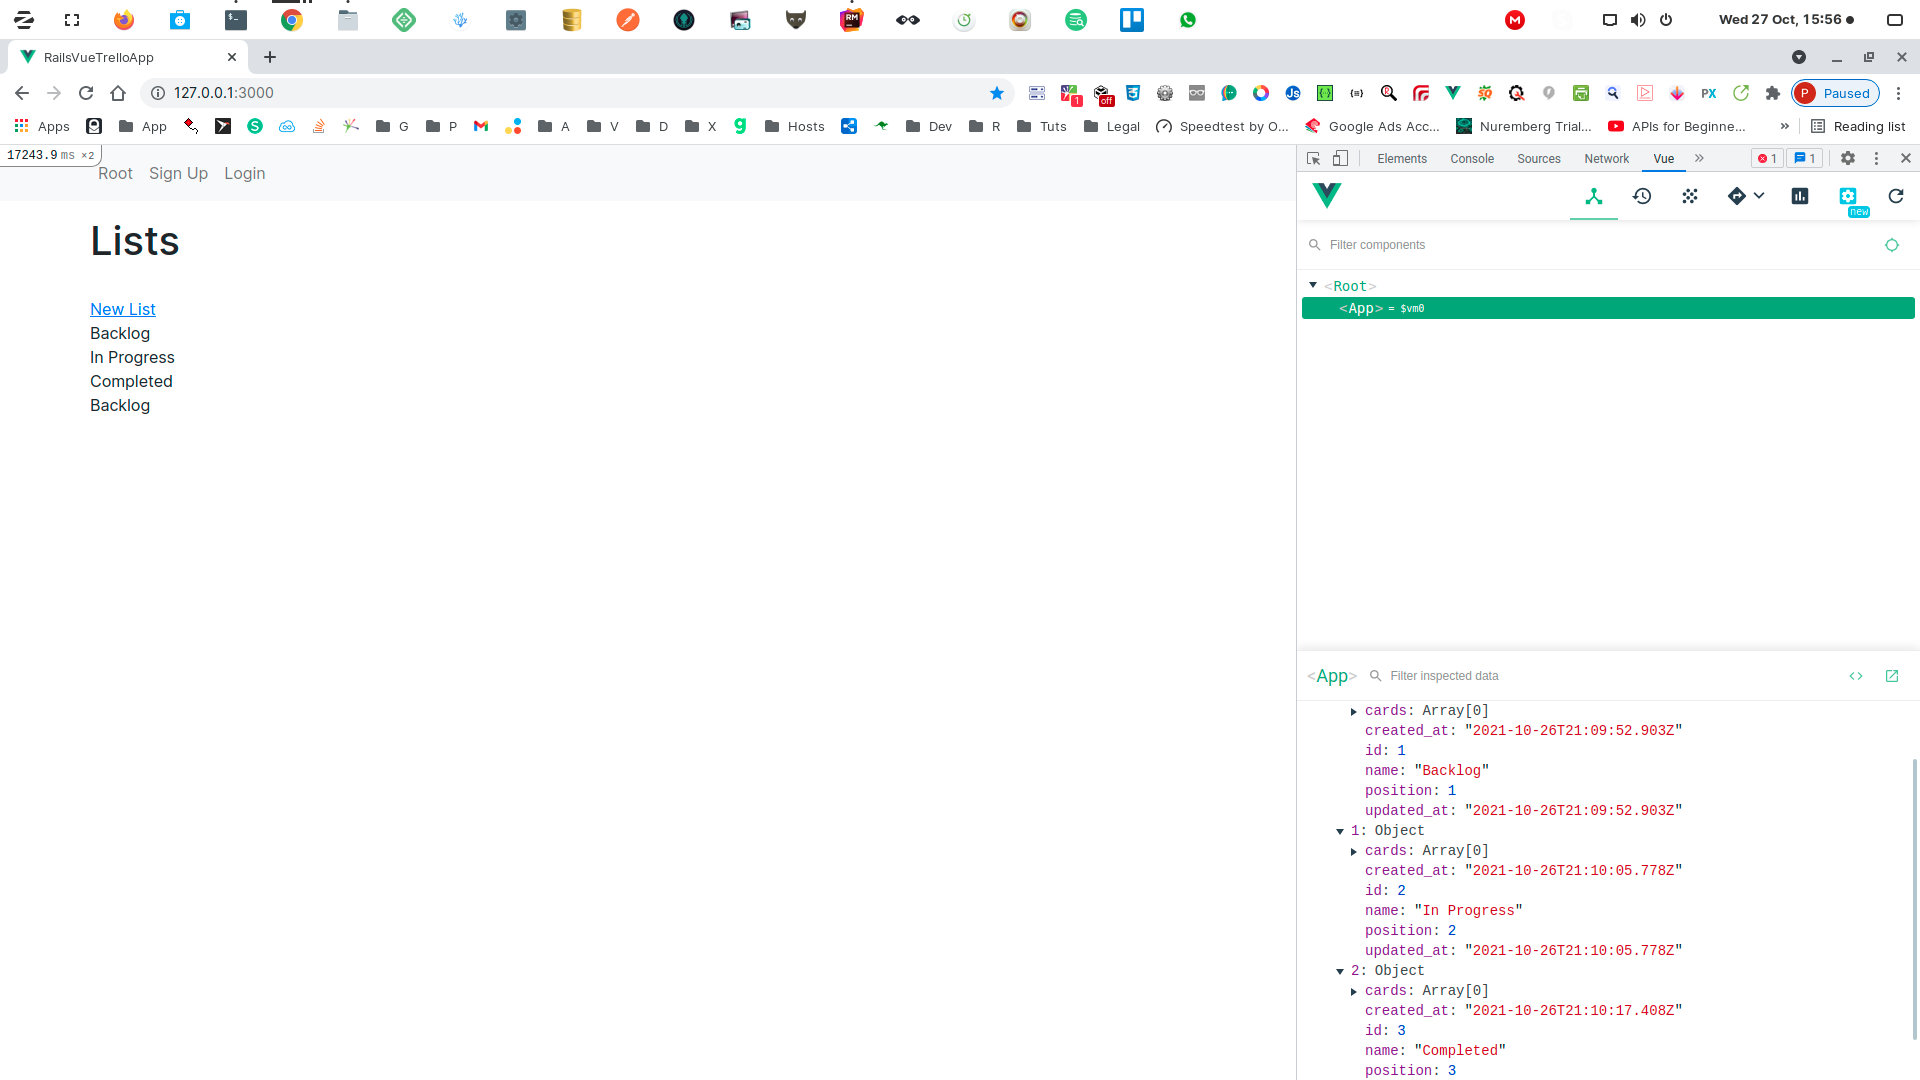
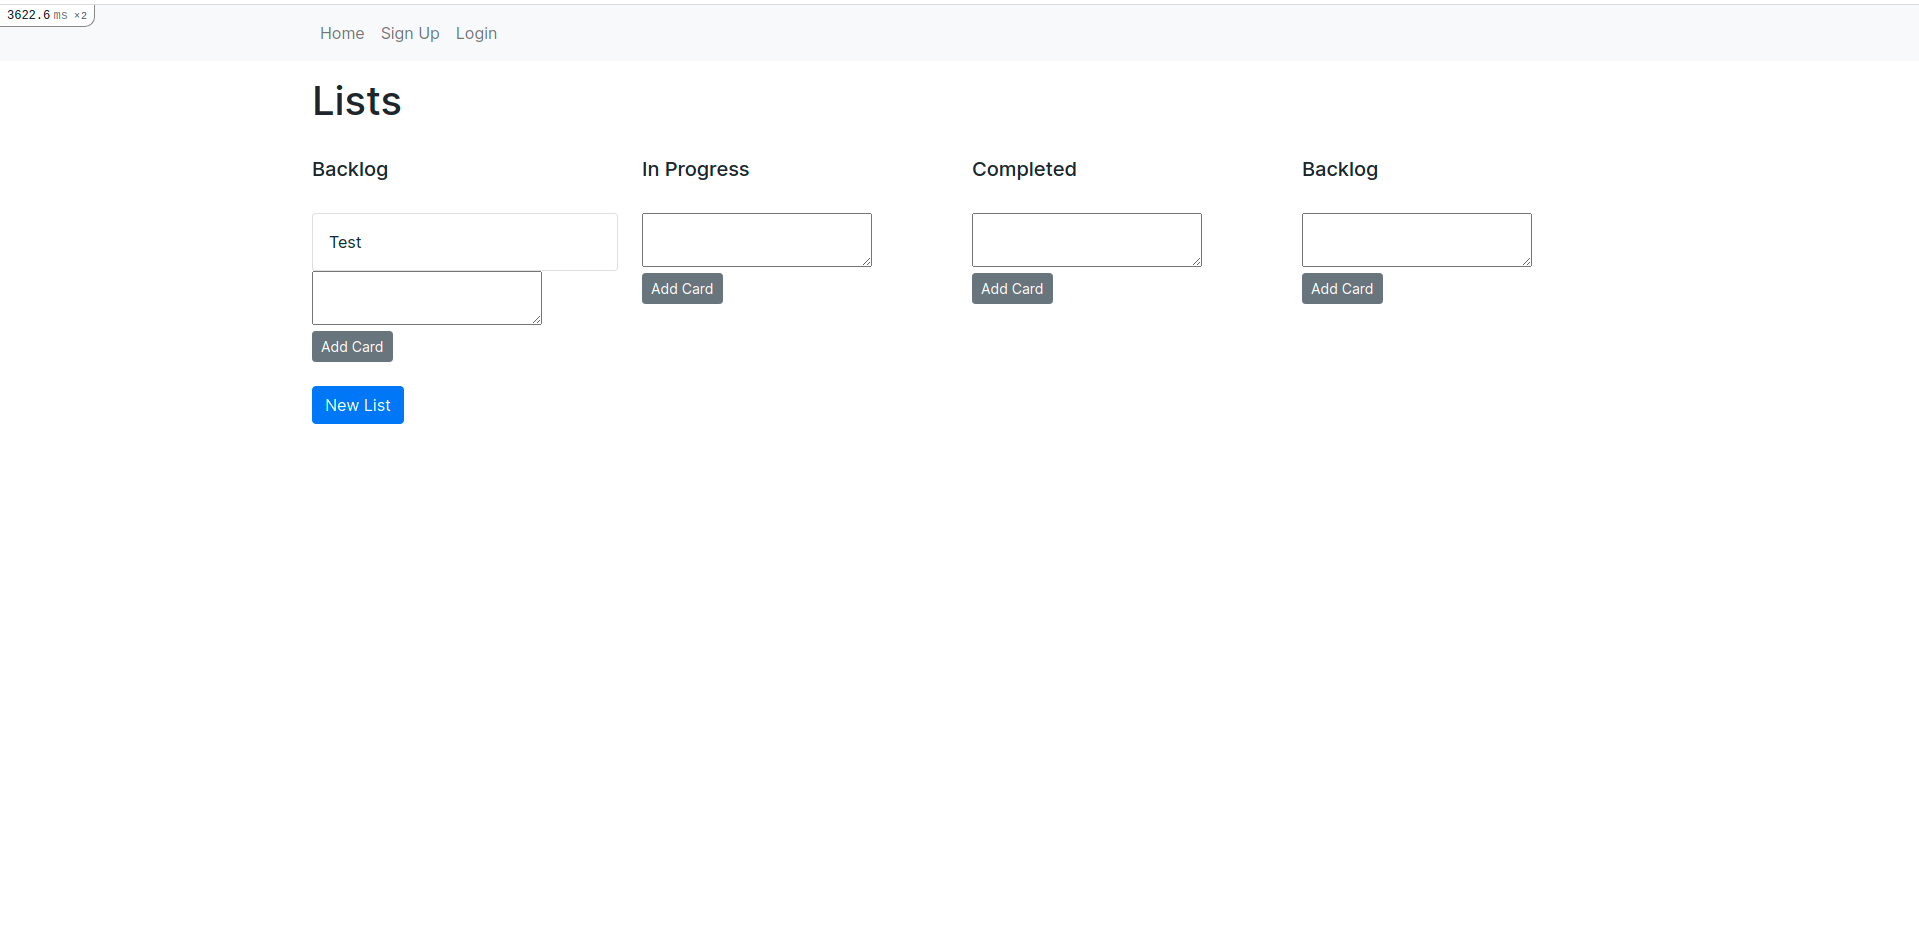
Vue & Readme

diff --git a/app/javascript/app.vue b/app/javascript/app.vue
@@ -6,6 +6,8 @@
       <div v-for="(card, index) in list.cards" class="card card-body">
        {{ card.name }}
       </div>
+      <textarea></textarea>
+      <button class="btn btn-secondary btn-sm">Add Card</button>
     </div>
   </div>
 </template>

diff --git a/README.md b/README.md
@@ -1,11 +1,8 @@
-# README
+# rails-vue-trello-app
 
-This README would normally document whatever steps are necessary to get the
-application up and running.
+Rails with integrated Vue JS, rendering lists and card boards - w Bootstrap 5, Devise.
 
-Things you may want to cover:
-
-* Ruby version
+* Ruby version 3.0.0
 
 * System dependencies
 
